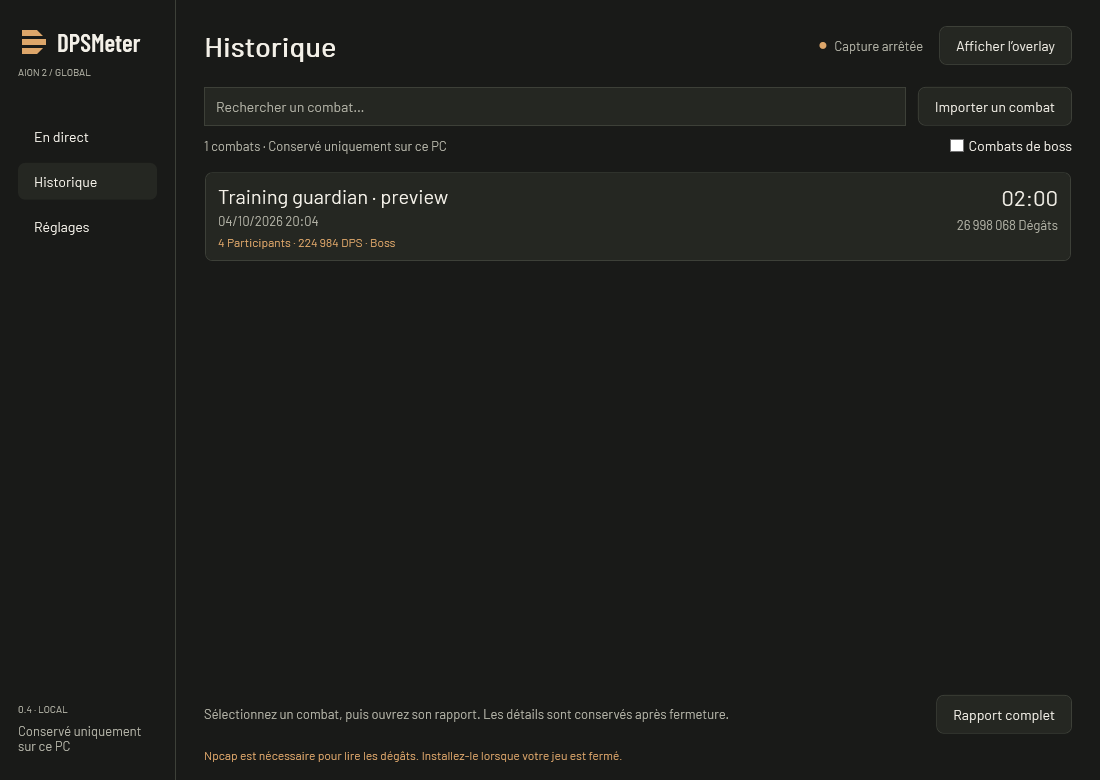
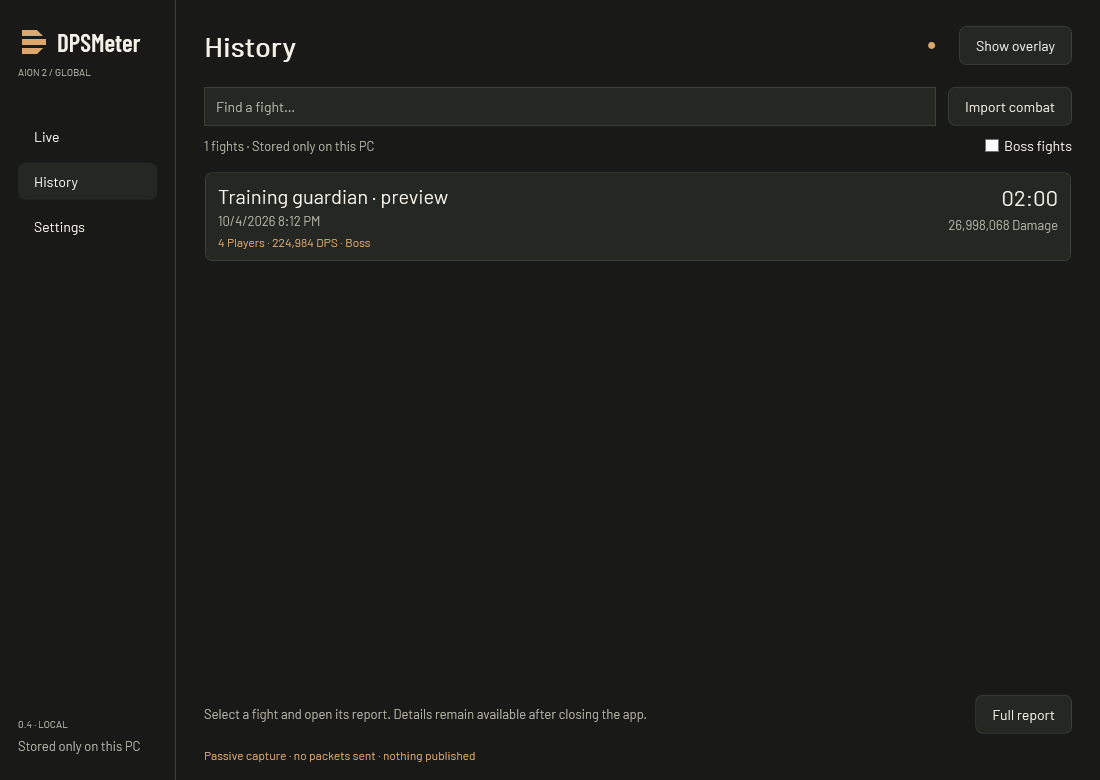
Translate README and screenshots into English

diff --git a/README.md b/README.md
@@ -6,209 +6,209 @@
   </picture>
 </p>
 
-<h1 align="center">Le combat, en clair.</h1>
+<h1 align="center">Your combat, clearly.</h1>
 
 <p align="center">
-  <strong>Votre DPS meter pour AION 2 Global.</strong><br>
-  Suivez vos dégâts et vos soins en jeu, explorez vos compétences et retrouvez vos combats.
+  <strong>Your DPS meter for AION 2 Global.</strong><br>
+  Track damage and healing in game, explore your skills, and revisit your fights.
 </p>
 
 <p align="center">
-  Windows x64 · Français / English / Español · 3 thèmes · Historique local
+  Windows x64 · English / French / Spanish · 3 themes · Local history
 </p>
 
 <p align="center">
-  <a href="#installation">Installer</a> ·
-  <a href="#aperçu">Voir l’interface</a> ·
-  <a href="#détail-des-sorts">Détail des sorts</a> ·
-  <a href="#premier-combat">Premier combat</a> ·
-  <a href="#questions-fréquentes">Questions fréquentes</a> ·
-  <a href="https://github.com/Phobie53/DPSMeter/issues">Signaler un problème</a>
+  <a href="#installation">Install</a> ·
+  <a href="#preview">See the interface</a> ·
+  <a href="#skill-breakdown">Skill breakdown</a> ·
+  <a href="#your-first-fight">Your first fight</a> ·
+  <a href="#frequently-asked-questions">FAQ</a> ·
+  <a href="https://github.com/Phobie53/DPSMeter/issues">Report an issue</a>
 </p>
 
 ---
 
-## Aperçu
+## Preview
 
-### Le classement en jeu
+### In-game ranking
 
-**Pendant le combat : l’essentiel, sans quitter le jeu.** L’overlay discret affiche une ligne par joueur observé, avec son DPS et sa contribution. Sa hauteur s’adapte au classement et les valeurs sont abrégées pour rester lisibles. Survolez un joueur pour retrouver ses dégâts totaux, ses critiques observés et ses principales compétences.
-
-<p align="center">
-  <img src="docs/images/overlay-demo.png" alt="Overlay discret actuel : quatre personnages fictifs, DPS abrégé, contribution et boutons Copier et Rapport" width="360">
-</p>
-
-### Détail des sorts
-
-**Cliquez sur un joueur : ses sorts remplacent le classement dans l’overlay.** Chaque ligne indique le DPS du sort et sa part dans les dégâts de ce joueur. La flèche **←** ramène au classement. Le total en bas reste celui de l’ensemble des participants observés.
+**During combat, see what matters without leaving the game.** The discreet overlay shows one row per observed player, with DPS and damage share. Its height fits the ranking, and abbreviated values keep it readable. Hover over a player to see total damage, observed critical hits, and their top skills.
 
 <p align="center">
-  <img src="docs/images/sorts-demo.png" alt="Overlay ouvert sur Aster : deux sorts de démonstration avec leur DPS et leur contribution respective de 50,3 % et 49,7 %" width="460">
+  <img src="docs/images/overlay-demo.png" alt="Current discreet overlay: four fictional players, abbreviated DPS, damage share, and Copy and Report buttons" width="360">
 </p>
 
-**Cliquez sur un sort ou sur Rapport pour ouvrir l’analyse complète.** Le joueur et le périmètre choisis dans l’overlay sont conservés. Dans l’application, un clic sur un autre joueur actualise le panneau **Compétences** ; le champ de recherche permet de retrouver un sort par son nom.
+### Skill breakdown
 
-![Rapport actuel : Lyra sélectionnée, dégâts et DPS de chaque sort, contribution, coups, ticks et critiques observés](docs/images/rapport-demo.png)
+**Click a player to replace the ranking with their skills.** Each row shows the skill's DPS and its share of that player's damage. Use **←** to return to the ranking. The total at the bottom still covers all observed participants.
 
-| Pour chaque sort | Ce que vous lisez dans le rapport |
+<p align="center">
+  <img src="docs/images/sorts-demo.png" alt="Aster's skill view: two demo skills showing their DPS and respective damage shares of 50.3% and 49.7%" width="460">
+</p>
+
+**Click a skill or Report to open the full analysis.** The selected player and target scope carry over from the overlay. In the app, selecting another player updates the **Skills** panel; use the search field to find a skill by name.
+
+![Current report with Lyra selected: damage and DPS per skill, damage share, hits, ticks, and observed critical hits](docs/images/rapport-demo.png)
+
+| Per-skill metric | What the report shows |
 | --- | --- |
-| **Dégâts** | Le total infligé par ce sort sur le périmètre sélectionné, ticks compris. |
-| **Contribution (%)** | La part de ce sort dans les dégâts du joueur sélectionné. |
-| **DPS** | Les dégâts du sort divisés par la durée du combat retenue pour ce périmètre. |
-| **Coups** | Le nombre d’impacts observés hors ticks ; ce n’est pas un compteur de lancements. |
-| **Ticks** | Le nombre d’événements périodiques observés, comptés séparément des coups. |
-| **Critiques (%)** | La proportion de coups critiques observés, hors ticks. |
+| **Damage** | Total damage dealt by this skill within the selected scope, including ticks. |
+| **Share (%)** | This skill's share of the selected player's damage. |
+| **DPS** | The skill's damage divided by the fight duration used for the selected scope. |
+| **Hits** | Observed impacts excluding ticks; this is not a cast counter. |
+| **Ticks** | Periodic events counted separately from direct hits. |
+| **Critical hits (%)** | The proportion of observed hits that were critical, excluding ticks. |
 
-Dans cet exemple fictif, **Flamme de démonstration** représente **4 130 091 dégâts**, soit **50,2 %** des dégâts de Lyra et **34 707 DPS**. Les **50,0 % de critiques** concernent les 60 coups de ce sort, pas sa contribution au total.
+In this fictional example, **Demo flame** deals **4,130,091 damage**, accounting for **50.2%** of Lyra's damage and **34,707 DPS**. Its **50.0% critical rate** applies to the skill's 60 hits, not its share of total damage.
 
-Le résumé au-dessus des sorts donne les dégâts, les coups, les critiques, le **plus gros impact** et l’**impact moyen** du joueur sur le périmètre affiché. Les deux dernières valeurs portent sur les événements reçus, ticks compris. L’onglet **Soins** propose la même lecture avec les soins bruts et le HPS. Dépliez **Rythme du combat** pour afficher la courbe des participants observés ou du joueur sélectionné.
+The summary above the skills shows the player's damage, hits, critical rate, **Largest event**, and **Average event** within the displayed scope. The last two values include ticks. Switch to **Healing** for the same breakdown using raw healing and HPS. Expand **Fight timeline** to chart all observed participants or the selected player.
 
-### Retrouver un combat
+### Revisit a fight
 
-**L’historique conserve vos rapports sur votre PC.** Recherchez un boss ou un joueur, filtrez les combats de boss, puis double-cliquez sur un combat ou sélectionnez **Rapport complet** pour retrouver le classement et les sorts. Vous pouvez consulter une archive pendant que la capture continue.
+**History keeps your reports on your PC.** Search for a boss or player, filter for boss fights, then double-click a fight or select **Full report** to revisit its ranking and skills. You can browse a saved fight while capture continues.
 
 <details>
-<summary><strong>Voir l’historique</strong></summary>
+<summary><strong>See the history view</strong></summary>
 
-![Historique de démonstration : recherche, filtre des combats de boss et ouverture du rapport complet](docs/images/historique-demo.png)
+![Demo history: search, boss fight filter, and Full report button](docs/images/historique-demo.png)
 
 </details>
 
-> Captures régénérées depuis la version **0.4.13**, en français et avec le thème Graphite. Elles utilisent exclusivement des **données fictives de démonstration**, y compris les noms de sorts et leurs icônes génériques. Elles ne représentent ni une performance réelle ni un classement de classes.
+> Screenshots rendered from version **0.4.13**, in English with the Graphite theme. All data is **fictional demonstration data**, including skill names and generic skill icons. These examples do not represent real performance or class rankings.
 
-| Pendant votre session | Pour analyser votre progression |
+| During your session | When reviewing your performance |
 | --- | --- |
-| **DPS et HPS** — dégâts et soins par seconde | **Compétences** — contribution, coups, ticks et critiques observés |
-| **Boss ou toutes les cibles** — choisissez le périmètre | **Rythme du combat** — courbe du groupe observé ou d’un joueur |
-| **Overlay discret** — compact, déplaçable, clics traversants | **Historique** — recherche par boss ou joueur, filtre des combats de boss |
-| **Trois thèmes** — Graphite, Ivoire, Contraste élevé | **Import / export** — fichiers JSON v2, export sans les noms |
-| **Réduction automatique** — barre de titre après deux minutes hors combat | **Copier** — résumé compact dans la langue de l’interface, prêt pour le chat du jeu |
+| **DPS and HPS** — damage and healing per second | **Skills** — contribution, hits, ticks, and observed critical hits |
+| **Boss or all targets** — choose your scope | **Fight timeline** — chart all observed participants or one player |
+| **Discreet overlay** — compact, movable, with click-through mode | **History** — search by boss or player and filter boss fights |
+| **Three themes** — Graphite, Ivory, High contrast | **Import / export** — JSON v2 files, export without names |
+| **Automatic collapse** — title bar only after two minutes out of combat | **Copy** — a compact summary in the interface language, ready for game chat |
 
 ## Installation
 
-### Ce qu’il vous faut
+### Requirements
 
-- **Windows x64** et AION 2 Global.
-- **Npcap** pour lire les combats : l’assistant de premier lancement vous guide s’il manque. Il s’installe séparément, une seule fois.
-- Le jeu en **mode fenêtré ou sans bordure** pour utiliser l’overlay de bureau au premier plan.
+- **Windows x64** and AION 2 Global.
+- **Npcap** to read combat events. The first-launch setup guides you if it is missing; it is installed separately, once per PC.
+- Run the game in **windowed or borderless mode** to keep the desktop overlay visible on top.
 
-L’exécutable est autonome : **aucune installation de .NET n’est nécessaire pour jouer**.
+The executable is self-contained: **you do not need to install .NET to use it**.
 
-### Télécharger et lancer
+### Download and launch
 
-1. Téléchargez **DPSMeter.exe** depuis la [dernière release](https://github.com/Phobie53/DPSMeter/releases/latest) et placez-le dans un dossier personnel.
-2. Ouvrez l’exécutable. Si Npcap manque, l’assistant vous invite à fermer le jeu et à télécharger son installateur depuis le site officiel.
-3. Installez Npcap, revenez dans DPSMeter et cliquez sur **Vérifier l’installation**, puis **Continuer**. Lancez ensuite le jeu.
+1. Download **DPSMeter.exe** from the [latest release](https://github.com/Phobie53/DPSMeter/releases/latest) and save it in a personal folder.
+2. Open the executable. If Npcap is missing, setup asks you to close the game and download the installer from the official website.
+3. Install Npcap, return to DPSMeter, click **Check installation**, then **Continue**. Launch the game afterward.
 
-Npcap déjà présent ? L’assistant est ignoré. **Plus tard** permet de consulter les archives et réglages sans capture ; **Démarrer** rouvre l’assistant si Npcap manque encore. Sa détection ne garantit pas à elle seule la réception des combats.
+Already have Npcap? Setup is skipped. **Later** lets you browse saved fights and settings without capture; **Start** reopens setup if Npcap is still missing. Detecting the driver alone does not guarantee that combat events are being received.
 
-L’application n’est pas encore signée : Windows peut afficher un avertissement de sécurité. Vérifiez que le fichier provient bien de ce dépôt.
+The app is not yet signed, so Windows may display a security warning. Check that the file comes from this repository.
 
 <details>
-<summary><strong>Mises à jour : à partir de la version 0.4.6</strong></summary>
+<summary><strong>Automatic updates: version 0.4.6 and later</strong></summary>
 
-La version 0.4.6 introduit la recherche de nouvelles releases stables au démarrage, leur téléchargement en arrière-plan et leur installation au lancement suivant. Aucun redémarrage n’est imposé ; les combats et préférences sont conservés.
+Starting with version 0.4.6, the app checks for stable releases on launch, downloads them in the background, and installs them the next time you launch it. No restart is forced; your fights and preferences are preserved.
 
-La première installation de cette version doit être manuelle : les versions 0.4.5 et antérieures ne disposent pas du mécanisme. L’installation des mises à jour nécessite un dossier accessible en écriture. Sans réseau ou sans release disponible, le meter reste utilisable.
+Users of version 0.4.5 or earlier must update manually once, as those versions have no updater. Installing updates requires a writable folder. The meter remains usable without a network connection or an available release.
 
 </details>
 
-## Premier combat
+## Your first fight
 
-1. **Lancez DPSMeter.** La capture et l’overlay démarrent automatiquement avec les réglages par défaut. Aucun redémarrage du jeu n’est nécessaire.
-2. **Jouez normalement.** Les données apparaissent lorsque des événements de combat sont reçus. Choisissez **DPS** ou **HPS** et le périmètre **Boss** ou **Toutes les cibles**.
-3. **Explorez une ligne.** Le survol donne un résumé ; un clic ouvre les compétences du joueur. Cliquez sur un sort ou sur **Rapport** pour ouvrir l’analyse détaillée.
-4. **Retrouvez votre combat.** Au repos, il est sauvegardé dans **Historique**. En monde ouvert, le délai est de 12 secondes sans activité personnelle pertinente si votre personnage est identifié ; le farm alentour ne le prolonge pas. Pour un boss engagé, les dégâts des participants sur ce boss maintiennent le combat, et une reprise après une phase silencieuse complète la même archive. La capture continue pendant que vous consultez un ancien rapport.
+1. **Launch DPSMeter.** Capture and the overlay start automatically with the default settings. You do not need to restart the game.
+2. **Play normally.** Data appears as combat events arrive. Choose **DPS** or **HPS**, and **Boss** or **All** targets in the overlay.
+3. **Explore a row.** Hover for a summary; click to see the player's skills. Click a skill or **Report** to open the detailed analysis.
+4. **Revisit your fight.** When combat goes idle, the fight is saved in **History**. In the open world, the timeout is 12 seconds without relevant personal activity when your character is identified; nearby farming does not extend it. For an engaged boss, participants' damage to that boss keeps the fight active, and resuming after a quiet phase updates the same saved fight. Capture continues while you read an older report.
 
-Dans **Réglages**, choisissez la langue, le thème et, si vous le souhaitez, le nom de votre personnage. Ce nom s’applique à la prochaine capture.
+In **Settings**, choose your language, theme, and optionally your character name. The name takes effect the next time capture starts.
 
-### Les gestes utiles de l’overlay
+### Overlay controls
 
-| Vous voulez… | Faites ceci |
+| To… | Do this |
 | --- | --- |
-| Afficher ou masquer le meter | **`Ctrl+Alt+M`**, ou **Afficher / Masquer l’overlay** dans l’application |
-| Le déplacer | Glissez sa barre de titre ; maintenez **Maj** pour désactiver temporairement l’aimantation |
-| Changer sa taille | Glissez le coin inférieur droit ; double-cliquez sur le titre pour le mode compact |
-| Cliquer dans le jeu à travers le meter | Activez le verrouillage **◇** ; masquez puis réaffichez avec **`Ctrl+Alt+M`** pour le déverrouiller |
-| Le repositionner | Ouvrez **···** pour les coins et le centre, ou **Réglages → Recentrer l’overlay** |
-| Consulter un ancien combat | Ouvrez le menu **En direct ▾** de l’overlay |
-| Voir les sorts d’un joueur | Cliquez sur sa ligne ; **←** ramène au classement |
-| Ouvrir le détail des dégâts par sort | Depuis les sorts, cliquez sur une ligne ou sur **Rapport** |
-| Copier le résumé du combat | Cliquez sur **Copier** dans l’overlay ou le rapport |
+| Show or hide the meter | Press **`Ctrl+Alt+M`**, or use **Show / Hide overlay** in the app |
+| Move it | Drag the title bar; hold **Shift** to temporarily bypass edge snapping |
+| Resize it | Drag the bottom-right corner; double-click the title for compact mode |
+| Click through to the game | Enable the **◇** lock; hide and show the overlay with **`Ctrl+Alt+M`** to unlock it |
+| Reposition it | Open **···** for corner and center positions, or **Settings → Bring overlay here** |
+| Browse a saved fight | Open the overlay's **Live ▾** menu |
+| See a player's skills | Click their row; **←** returns to the ranking |
+| Open the damage breakdown | From the skill list, click a row or **Report** |
+| Copy a fight summary | Click **Copy** in the overlay or report |
 
-La position et la taille sont mémorisées. Par défaut, l’overlay passe à **15 % d’opacité hors combat**, après 12 secondes sans événement, puis redevient lisible au combat ou au survol lorsqu’il est déverrouillé. La lecture d’un combat archivé reste lisible. L’option se règle dans **··· → Presque transparent hors combat**.
+Position and size are remembered. By default, the overlay fades to **15% opacity out of combat** when the fight goes idle after the 12-second timeout. It becomes readable again during combat or on hover when unlocked. Saved fights stay readable. Change this in **··· → Nearly transparent out of combat**.
 
-Après **deux minutes hors combat**, il se réduit à sa barre de titre. Le survol ne le déplie pas : utilisez le bouton flèche pour deux nouvelles minutes de lecture, ou laissez le prochain combat restaurer sa taille. Les archives restent dépliées. Le menu **···** permet aussi de quitter la présentation discrète pour retrouver les lignes détaillées.
+After **two minutes out of combat**, the overlay collapses to its title bar. Hovering does not expand it: use the arrow button for another two minutes of reading, or let the next fight restore its size. Saved fights remain expanded. You can also turn off **Discreet layout** in **···** to return to detailed rows.
 
-## Comprendre vos chiffres
+## Understanding your numbers
 
-**Le DPS dépend de la cible choisie.** Sur un boss, il utilise la durée entre le premier et le dernier dégât des joueurs sur ce boss, avec un minimum d’une seconde. L’attente des 12 secondes de fin de combat ne fait pas baisser le résultat. Les pauses entre les attaques restent incluses. En mode toutes les cibles, le calcul utilise le premier et le dernier événement du segment.
+**DPS depends on the selected target.** For a boss, it uses the time between players' first and last damage to that boss, with a minimum of one second. Waiting for the 12-second inactivity timeout does not lower the result. Pauses between attacks still count. With all targets selected, the calculation uses the segment's first and last event.
 
-- **Soins :** valeurs brutes, sans déduction du sursoin. Le HPS ne mesure donc pas les seuls soins utiles.
-- **Critiques :** statistiques observées ; les données des autres joueurs peuvent être incomplètes.
-- **Ticks :** leurs dégâts sont comptés sans augmenter artificiellement le nombre de coups ou de critiques.
-- **Participants :** joueurs identifiés dans le flux reçu, pas une composition de groupe confirmée. Des noms ou des PV peuvent manquer.
-- **Sources à identifier :** certaines sources anonymes restent séparées des joueurs. Leurs dégâts restent dans le total et leurs détails sont consultables ; aucun propriétaire n’est deviné.
+- **Healing:** raw values, without subtracting overhealing. HPS therefore does not measure effective healing alone.
+- **Critical hits:** observed statistics; other players' data may be incomplete.
+- **Ticks:** their damage counts without inflating the hit count or critical rate.
+- **Participants:** players identified in received traffic, not a confirmed party roster. Names or HP may be missing.
+- **Unidentified sources:** some anonymous sources remain separate from players. Their damage still counts, and their details remain available; ownership is never guessed.
 
-Les buffs, leur durée d’activité, les attaques de dos/de face, les doubles et les coups parfaits ne sont pas encore exposés. Sans boss identifié, 12 secondes sans activité pertinente peuvent séparer une rencontre en plusieurs combats. Pour un boss, une mort ou un reset non reçu peut au contraire fusionner des tentatives ; une remontée complète de ses PV peut être prise pour un reset. La reprise d’un boss ne traverse pas le redémarrage du meter. Une mise à jour du jeu peut nécessiter une adaptation du décodeur.
+Buffs, buff uptime, back/front attacks, double hits, and perfect hits are not yet exposed. Without an identified boss, 12 seconds without relevant activity may split an encounter into separate fights. For a boss, a missed death or reset event may instead merge attempts; a full HP recovery mechanic may be mistaken for a reset. Boss continuation does not survive restarting the meter. Game updates may require decoder changes.
 
-## Questions fréquentes
+## Frequently asked questions
 
-### Aucun dégât ne s’affiche : que vérifier ?
+### No damage appears. What should I check?
 
-Vérifiez que Npcap est installé, que la capture n’est pas en pause et que des événements de combat se produisent. Consultez l’état de capture dans l’application. En cas de problème persistant, [ouvrez un signalement](https://github.com/Phobie53/DPSMeter/issues/new?template=bug_report.md) avec votre version et le message affiché, sans données privées.
+Check that Npcap is installed, capture is not paused, and combat events are occurring. Look at the capture status in the app. If the problem persists, [report an issue](https://github.com/Phobie53/DPSMeter/issues/new?template=bug_report.md) with your app version and the displayed message, without private data.
 
-### Pourquoi certains joueurs ou boss n’ont-ils pas de nom ?
+### Why are some player or boss names missing?
 
-Si le meter démarre en cours de partie, il peut devoir attendre que le jeu renvoie leur identité. Il conserve les dégâts reçus sans inventer les informations manquantes.
+If the meter starts mid-session, it may need to wait for the game to send their identity again. Received damage is kept without inventing missing information.
 
-### Où sont mes combats ?
+### Where are my fights stored?
 
-Ils restent sur votre PC, dans `%LOCALAPPDATA%\DPSMeter\fights\`. Les préférences sont dans `%LOCALAPPDATA%\DPSMeter\settings.json`. Aucun combat n’est supprimé automatiquement ; une collection très volumineuse peut demander plus de temps à charger.
+They stay on your PC in `%LOCALAPPDATA%\DPSMeter\fights\`. Preferences are in `%LOCALAPPDATA%\DPSMeter\settings.json`. Fights are not automatically deleted; a very large collection may take longer to load.
 
-### Puis-je partager un rapport ?
+### Can I share a report?
 
-Oui. **Copier**, dans l’overlay ou le rapport, place dans le presse-papiers une ligne compacte avec la cible, la durée, le DPS ou HPS global et le classement, selon le filtre affiché et dans la langue de l’interface. Les valeurs sont abrégées en k/M et les noms sont conservés. Collez-la ensuite vous-même dans le chat du jeu.
+Yes. **Copy**, in the overlay or report, puts a compact line on your clipboard with the target, duration, overall DPS or HPS, and ranking. It follows the displayed filter and interface language. Values are abbreviated as k/M, and player names are retained. Paste it into game chat yourself.
 
-Pour transmettre le fichier complet, **Exporter sans les noms** produit un JSON v2 qui remplace les noms et identifiants des joueurs. Vous choisissez ensuite où partager ce fichier ; DPSMeter ne l’envoie pas en ligne. Les sauvegardes locales, elles, conservent les noms. L’import accepte le format v2 de ce projet et le marque non vérifié ; les fichiers NotMeter et ceux de l’ancien prototype v1 ne sont pas pris en charge.
+To share the full file, **Export without names** creates a JSON v2 file with player names and identifiers replaced. You choose where to share it; DPSMeter does not upload it. Local saves retain names. Import accepts this project's v2 format and marks imported fights as unverified; NotMeter files and the legacy v1 prototype format are not supported.
 
-### Que font « Pause » et « Nouveau combat » ?
+### What do Pause and New fight do?
 
-**Pause** ignore les événements reçus pendant la pause : ils ne seront pas rejoués. **Nouveau combat** archive le segment actuel ; le suivant commence au prochain événement.
+**Pause** ignores events received while paused; they will not be replayed. **New fight** saves the current segment; the next segment starts when qualifying combat activity resumes.
 
-### Est-ce un outil officiel ou approuvé par NCSOFT ?
+### Is this an official tool or approved by NCSOFT?
 
-Non. DPSMeter est un **projet indépendant**, sans approbation de NCSOFT revendiquée. Il utilise une capture passive via Npcap : aucune injection, lecture de mémoire du jeu, modification de paquets, automatisation du gameplay ou contournement de protection. Cette méthode ne garantit pas la conformité aux règles du jeu.
+No. DPSMeter is an **independent project** and does not claim NCSOFT approval. It uses passive capture through Npcap: no injection, game-memory access, packet modification, gameplay automation, or protection bypass. This method does not guarantee compliance with the game's rules.
 
-### Mes données sont-elles envoyées sur Internet ?
+### Is my data sent over the Internet?
 
-**Aucune télémétrie ni aucun envoi automatique de combats.** L’application ne conserve pas les paquets bruts, les IP ou le compte du jeu. Le mécanisme de mise à jour de la version 0.4.6 contacte GitHub pour les versions et téléchargements, sans transmettre de données de combat. Il n’y a pas de site communautaire ni de classement en ligne intégré.
+**No telemetry or automatic fight uploads.** The app does not store raw packets, IP addresses, or game account details. The updater introduced in version 0.4.6 contacts GitHub for release information and downloads, without sending combat data. There is no integrated community website or online leaderboard.
 
-## Contribuer au projet
+## Contributing
 
-Un problème ou une idée ? [Ouvrez une issue](https://github.com/Phobie53/DPSMeter/issues). Indiquez la version utilisée, ce que vous attendiez et ce que vous avez observé. Ne joignez pas de combat réel, de trafic réseau brut ni de capture contenant des informations privées.
+Found a problem or have an idea? [Open an issue](https://github.com/Phobie53/DPSMeter/issues). Include your app version, what you expected, and what you observed. Do not attach real fights, raw network traffic, or screenshots containing private information.
 
 <details>
-<summary><strong>Développeurs : documentation et vérifications</strong></summary>
+<summary><strong>Developers: documentation and verification</strong></summary>
 
-Prérequis : Windows et SDK .NET 9. Une migration LTS reste à planifier.
+Requirements: Windows and the .NET 9 SDK. An LTS migration is still to be planned.
 
-Lisez le [guide de reprise](docs/HANDOFF.md) et le [guide de contribution](CONTRIBUTING.md) avant de modifier le projet.
+Read the [handoff guide](docs/HANDOFF.md) and [contribution guide](CONTRIBUTING.md) before changing the project. These supporting documents are currently in French.
 
 ```powershell
 powershell -NoProfile -File tools/Verify.ps1
 ```
 
-Ce script restaure les dépendances verrouillées, compile, vérifie les calculs et le protocole, produit l’exécutable et contrôle l’interface hors écran dans les trois langues et les trois thèmes. Il ne lance pas de capture et n’interagit pas avec le jeu. Les résultats restent dans `artifacts/`, ignoré par Git. Ces contrôles ne certifient pas l’intégralité du protocole.
+This script restores locked dependencies, builds the app, checks calculations and protocol behavior, publishes the executable, and renders the interface offscreen in all three languages and themes. It does not start capture or interact with the game. Results stay in `artifacts/`, which is ignored by Git. These checks do not certify the entire protocol.
 
 - [Architecture](docs/ARCHITECTURE.md)
-- [Format des combats JSON v2](docs/FORMAT.md)
-- [Décisions techniques](docs/DECISIONS.md)
-- [Identité graphique et ressources](brand/README.md)
-- [Vérifications automatiques sur GitHub](https://github.com/Phobie53/DPSMeter/actions/workflows/build.yml)
+- [JSON v2 fight format](docs/FORMAT.md)
+- [Technical decisions](docs/DECISIONS.md)
+- [Brand identity and assets](brand/README.md)
+- [Automated checks on GitHub](https://github.com/Phobie53/DPSMeter/actions/workflows/build.yml)
 
 </details>
 
 ---
 
-Code du projet sous [licence MIT](LICENSE). Visuels et données AION 2 : © NCSOFT, hors licence MIT du projet. Moteur dérivé de SkeeveTV sous MIT, PacketDotNet sous MPL-2.0 et polices Barlow sous SIL OFL 1.1. Voir les [notices tierces](THIRD-PARTY-NOTICES.md) et l’[origine du moteur](src/DPSMeter.Engine/Vendor/ORIGIN.md).
+Project code is under the [MIT license](LICENSE). AION 2 artwork and data: © NCSOFT, excluded from the project's MIT license. The engine is derived from SkeeveTV's work under MIT; PacketDotNet is under MPL-2.0, and Barlow fonts under SIL OFL 1.1. See [third-party notices](THIRD-PARTY-NOTICES.md) and [engine provenance](src/DPSMeter.Engine/Vendor/ORIGIN.md).
